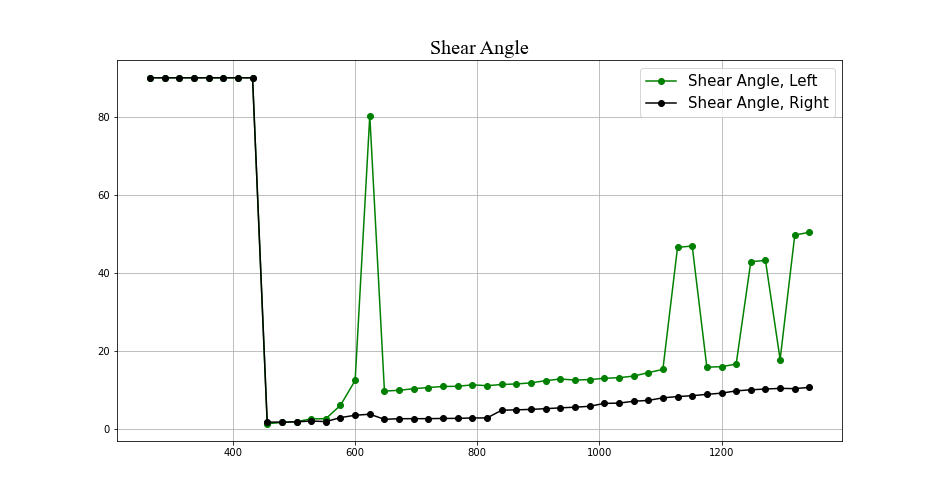
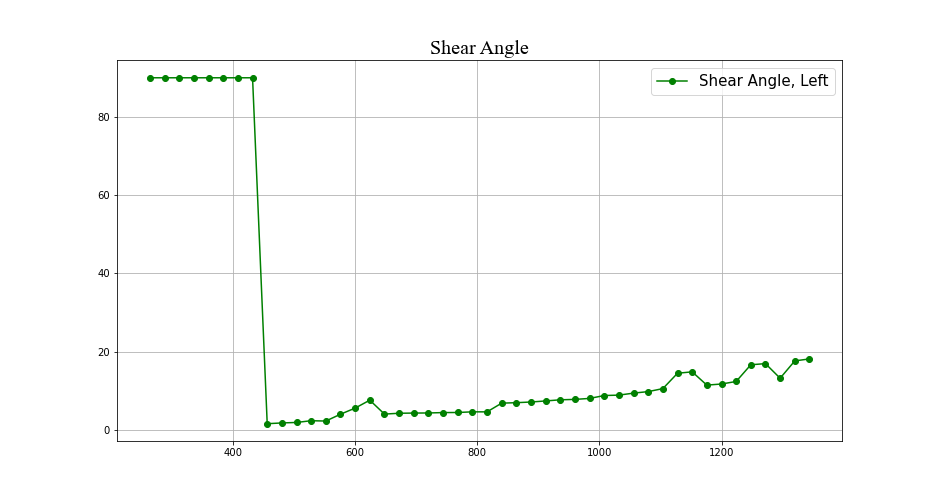
low2 edits

diff --git a/fl_funcs.py b/fl_funcs.py
@@ -4006,20 +4006,16 @@ def E_field_det(conv_f, distpos, distneg, timelab, hmi_dat, pos_rem, neg_rem,
     return E_pos, E_neg, E_rat, time_E
 
 def shear_to_angle(times, flnum, dt1600, left_gfr, right_gfr, flag = 0):
-    ang_prep_left = 1/left_gfr
-    ang_prep_right = 1/right_gfr
+    ang_prep = (left_gfr+right_gfr)/2
     
-    shear_ang_left = np.arctan(ang_prep_left)*180./np.pi
-    shear_ang_right = np.arctan(ang_prep_right)*180./np.pi
+    shear_ang = np.arctan(1/ang_prep)*180./np.pi
     
     timelab = range(0, 24*len(times), 24)
     s = str(dt1600[0])
     fig, ax = plt.subplots(figsize=(13, 7))
     if flag == 0:
-        ax.plot(timelab, shear_ang_left, c='green', marker='o',
+        ax.plot(timelab, shear_ang, c='green', marker='o',
                 label='Shear Angle, Left')
-
-        ax.plot(timelab, shear_ang_right, c='black', marker='o', label='Shear Angle, Right')
     elif flag == 1:
         ax.plot(timelab, right_gfr, c='black', marker='o', label='GFR proxy')
         ax.set_xlabel('Time [s since '+s[5:-7]+']', font='Times New Roman',
@@ -4031,7 +4027,7 @@ def shear_to_angle(times, flnum, dt1600, left_gfr, right_gfr, flag = 0):
     ax.legend(fontsize=15)
     fig.savefig(str(flnum) + '_shear_angle.png')
     
-    return shear_ang_left, shear_ang_right
+    return shear_ang
 
 def quartermaxtime(transtime, right_gfr, left_gfr, timelab, find_nearest_idx, flag = 0):
     if flag == 0:
@@ -4215,10 +4211,10 @@ def plt_fourpanel(times, right_gfr, left_gfr, flnum, dt1600, time304,
     font = font_manager.FontProperties(style='normal', size=20)
     ax1.legend(lns, labs, prop=font, fontsize=20, loc='lower center')
     ax1.set_ylabel('EUV Normalized Light Curves',
-                   fontsize=35)
+                   fontsize=30)
     ax1_0.set_ylabel(
         'HXR Flux [$cts* s^{-1}* cm^{-2}* keV^{-1}$]',
-        fontsize=35)
+        fontsize=30)
     ax1.set_title('Chromospheric and HXR Light Curves',
                   fontsize=40)
     ax1.set_xlim([dt1600[0], dt1600[-1]])
@@ -4228,7 +4224,7 @@ def plt_fourpanel(times, right_gfr, left_gfr, flnum, dt1600, time304,
                     label = 'GFR')
 
 
-    ax2.set_ylabel('GFR Proxy', fontsize=35)
+    ax2.set_ylabel('GFR Proxy', fontsize=30)
     ax2.set_title('Magnetic Shear, Reconnecting Electric Field Strength', fontsize=40)
     ax2.set_ylim([0,np.nanmax(GFR[gfr_trans:])+2])
     ax2.grid()
@@ -4250,7 +4246,7 @@ def plt_fourpanel(times, right_gfr, left_gfr, flnum, dt1600, time304,
     ax2_0.set_xlim([dt1600[0], dt1600[-1]])
 
     ax2_0.set_ylabel('Electric Field [V/cm]',
-                  fontsize=35)
+                  fontsize=30)
 
 
     font = font_manager.FontProperties(style='normal', size=20)
@@ -4280,7 +4276,7 @@ def plt_fourpanel(times, right_gfr, left_gfr, flnum, dt1600, time304,
 
     ax3.grid()
     ax3.set_ylabel(
-        'Parallel PIL Distance [Mm]', fontsize=35)
+        'Parallel PIL Distance [Mm]', fontsize=30)
     ax3.set_title('Ribbon Elongation',
                   fontsize=40)
 
@@ -4305,7 +4301,7 @@ def plt_fourpanel(times, right_gfr, left_gfr, flnum, dt1600, time304,
              c='blue', markersize=6)
 
     ax4.set_ylabel(
-        'Perpendicular PIL Distance [Mm]', fontsize=35)
+        'Perpendicular PIL Distance [Mm]', fontsize=30)
     ax4.set_title('Ribbon Separation',
                   fontsize=40)
 
@@ -4320,7 +4316,19 @@ def plt_fourpanel(times, right_gfr, left_gfr, flnum, dt1600, time304,
                 label=r'Max. neg. 1600 $\AA$', linestyle='dotted')
     ax4.grid()
     ax4.set_xlabel('Time [DD HH:MM]',
-                   fontsize=35)
+                   fontsize=30)
+    ax1.xaxis.set_tick_params(labelsize=24)
+    ax1.yaxis.set_tick_params(labelsize=24)
+    ax2.xaxis.set_tick_params(labelsize=24)
+    ax2.yaxis.set_tick_params(labelsize=24)
+    ax3.xaxis.set_tick_params(labelsize=24)
+    ax3.yaxis.set_tick_params(labelsize=24)
+    ax4.xaxis.set_tick_params(labelsize=24)
+    ax4.yaxis.set_tick_params(labelsize=24)
+    ax1_0.xaxis.set_tick_params(labelsize=24)
+    ax1_0.yaxis.set_tick_params(labelsize=24)
+    ax2_0.xaxis.set_tick_params(labelsize=24)
+    ax2_0.yaxis.set_tick_params(labelsize=24)
     
     if period_flag == 1:
         for i, j in zip(elonperiod_start_pos, elonperiod_end_pos):

diff --git a/low1_process.py b/low1_process.py
@@ -287,7 +287,10 @@ E_pos, E_neg, E_rat, time_E = fl_funcs.E_field_det(conv_f, distpos_med,
                                                    flnum, dt1600, times,
                                                    startind=gfr_trans)
 
-shear_ang_left, shear_ang_right = fl_funcs.shear_to_angle(times,flnum,dt1600, left_gfr, right_gfr)
+E_pos = np.append(E_pos,E_pos[-1])
+E_neg = np.append(E_neg,E_neg[-1])
+
+shear_ang = fl_funcs.shear_to_angle(times,flnum,dt1600, left_gfr, right_gfr)
 
 quartermaxtim = fl_funcs.quartermaxtime(gfr_trans, right_gfr, left_gfr, timelab, fl_funcs.find_nearest_ind, flag = 0)
 
@@ -307,4 +310,4 @@ fl_funcs.plt_fourpanel(times, right_gfr, left_gfr, flnum, dt1600, time304,
 
 file='low1shear'
 
-np.savez(file,shear_ang_left,shear_ang_right,right_gfr,left_gfr)
+np.savez(file,shear_ang,right_gfr,left_gfr)

diff --git a/low2_process.py b/low2_process.py
@@ -304,7 +304,7 @@ E_pos, E_neg, E_rat, time_E = fl_funcs.E_field_det(conv_f, distpos_med,
 E_pos = np.append(E_pos,E_pos[-1])
 E_neg = np.append(E_neg,E_neg[-1])
 
-shear_ang_left, shear_ang_right = fl_funcs.shear_to_angle(times,flnum,dt1600, left_gfr, right_gfr)
+shear_ang = fl_funcs.shear_to_angle(times,flnum,dt1600, left_gfr, right_gfr)
 
 quartermaxtim = fl_funcs.quartermaxtime(gfr_trans, right_gfr, left_gfr, timelab, fl_funcs.find_nearest_ind, flag = 0)
 
@@ -324,4 +324,4 @@ fl_funcs.plt_fourpanel(times, right_gfr, left_gfr, flnum, dt1600, time304,
 
 file='low2shear'
 
-np.savez(file,shear_ang_left,shear_ang_right,right_gfr,left_gfr)
+np.savez(file,shear_ang,right_gfr,left_gfr)
